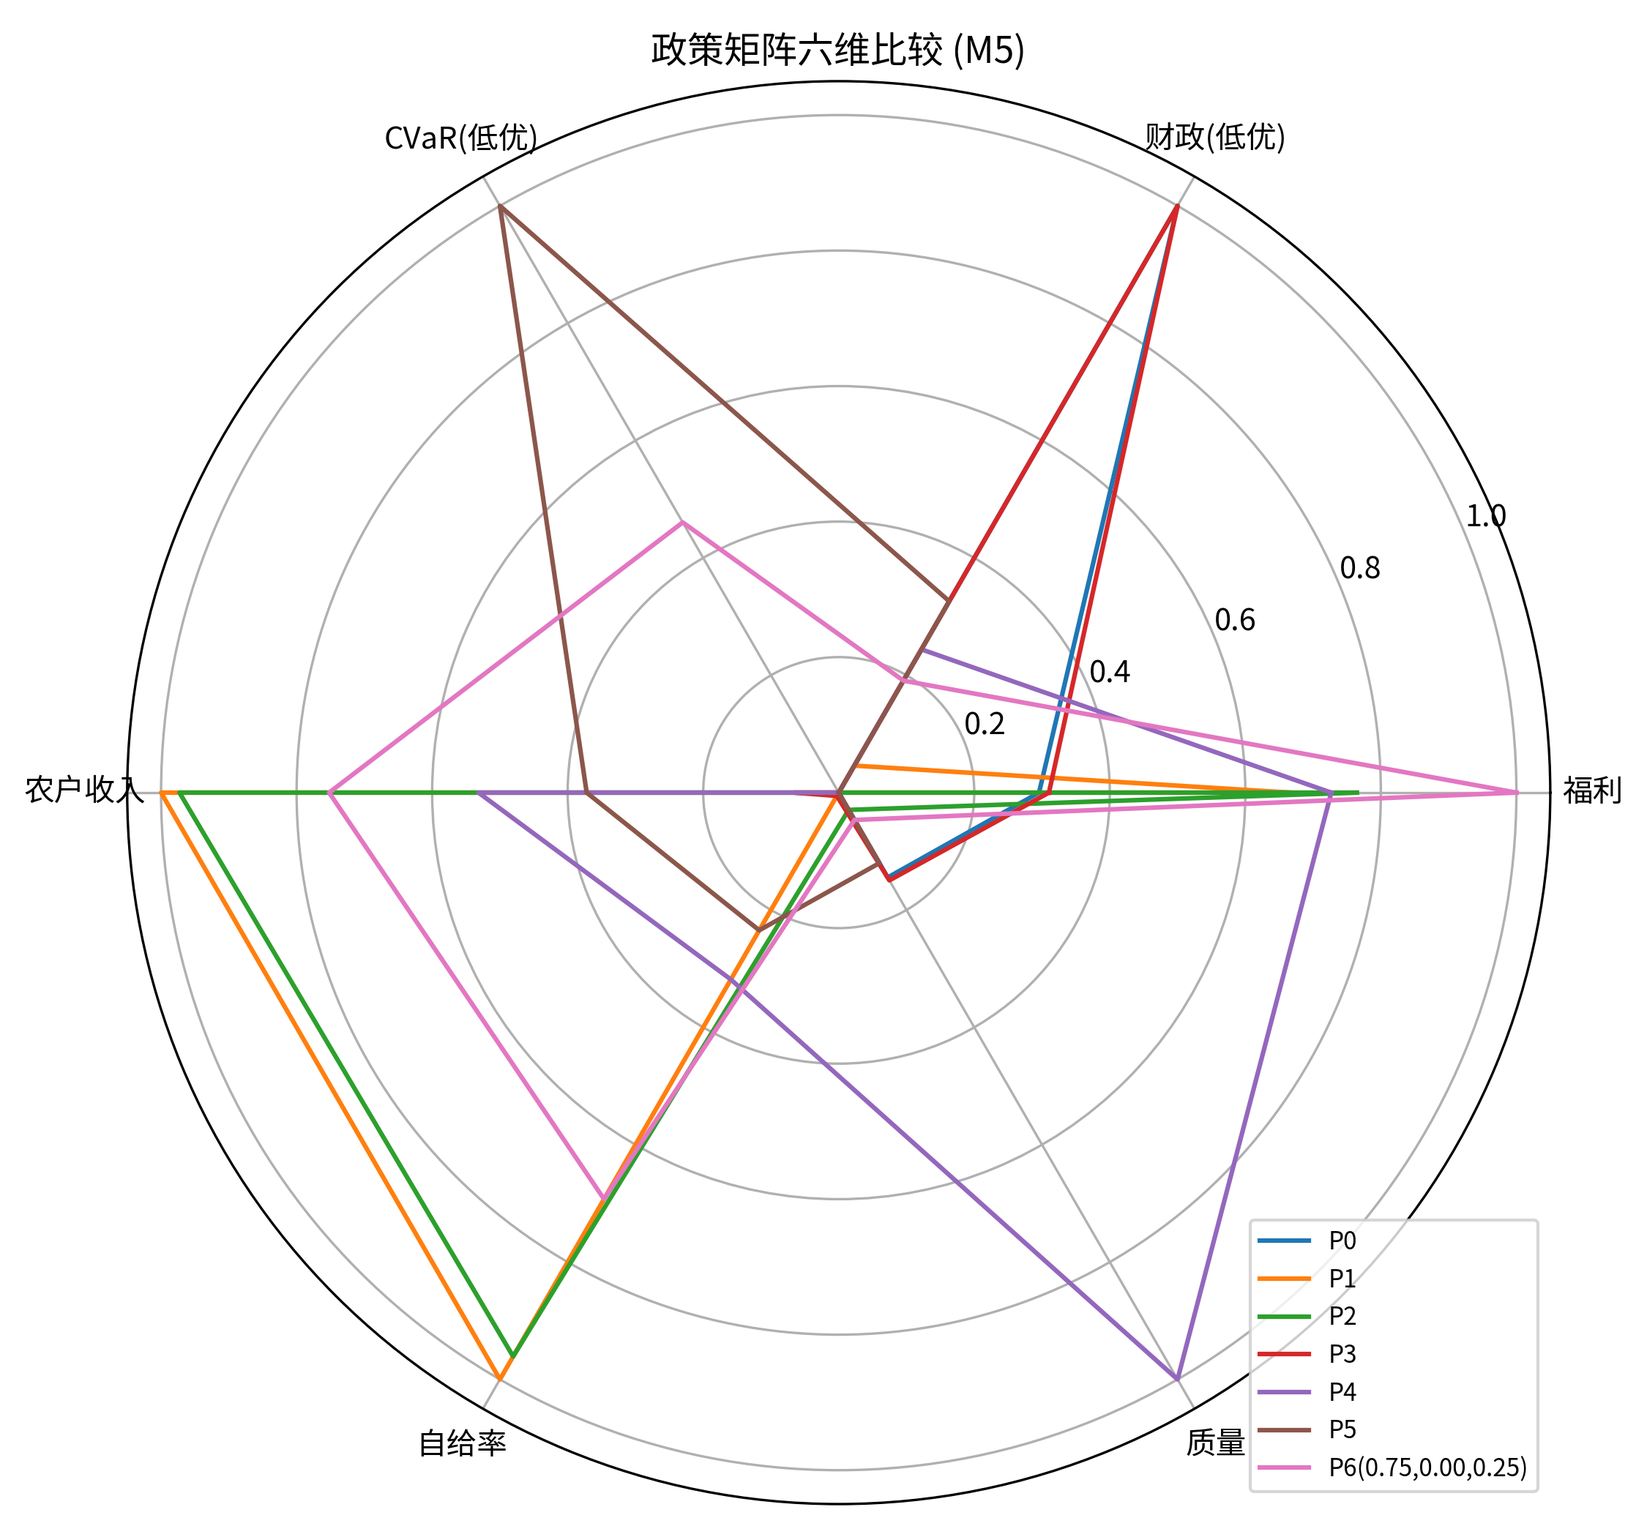
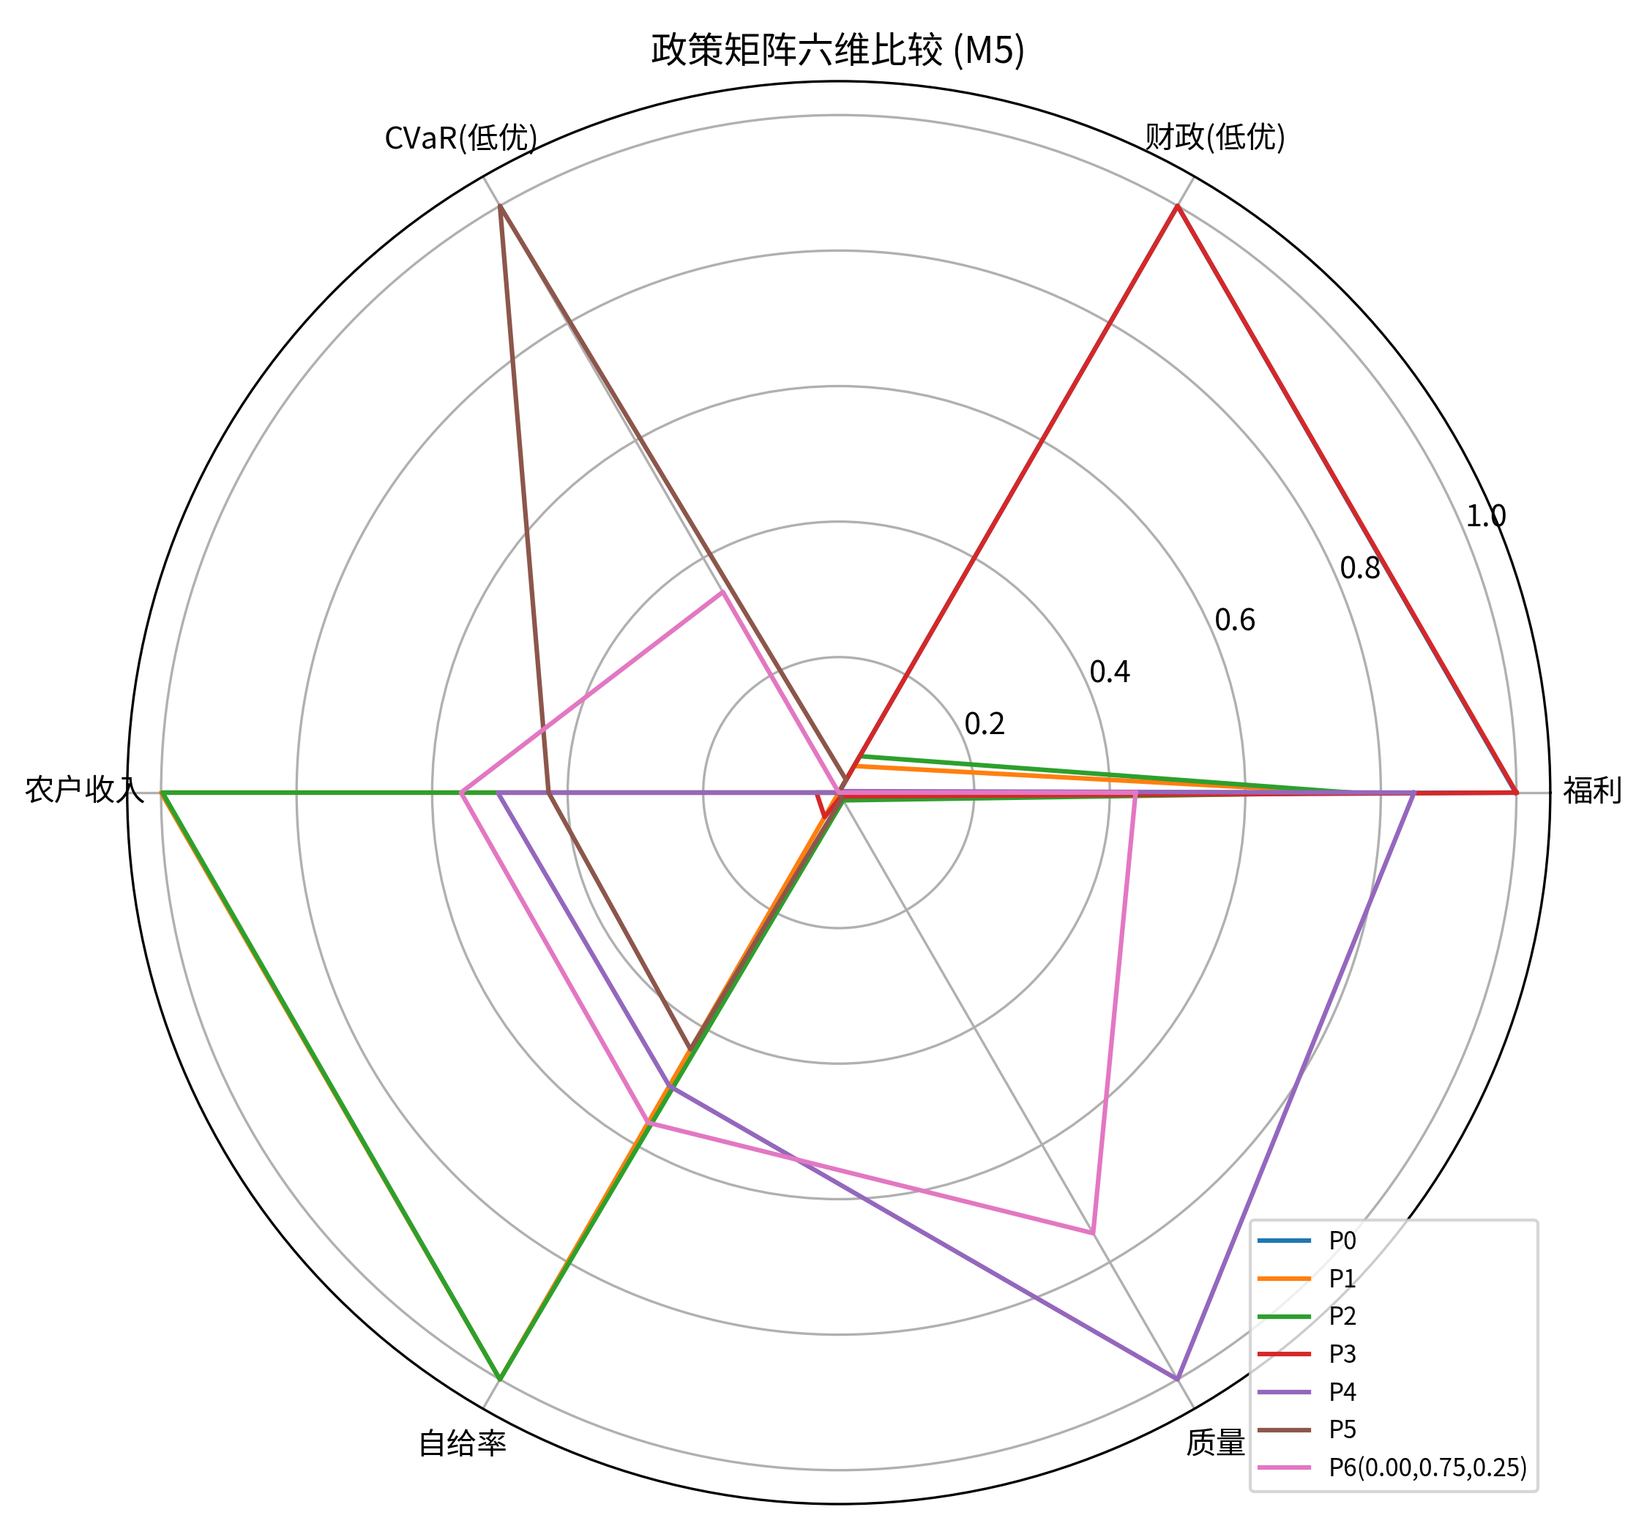
Auto-sync soybean_second_best: 2026-07-07T02:10:01+08:00

diff --git a/soybean_second_best/src/m5_policy.py b/soybean_second_best/src/m5_policy.py
@@ -90,6 +90,11 @@ def eval_policy(cfg, name, spec=None, n_seeds=20, n_agents=2000, horizon=(2026, 
     sc = _get_sc(cfg)
     vy = float(cfg["prices"]["spread_dom_import_2024"])
     X_pol = pol.get("reserve_X") or sp["reserve_X"]
+    # 基线质量尺度 q̄0 = ϑ0^{1/(δ−m)}·E[φ]·(θ_r 面积加权): 观测溢价 vy 对应
+    # 基线质量水平, 质量项按 q̄/q̄0 归一（q̄ 直接乘 vy 会把水平当乘子, 低估 60%）
+    R_ = mc.load_regions()
+    q0 = (sp["theta_transmission"] ** (1.0 / sp["delta_minus_m"]) * 1.011
+          * float(np.average(R_.quality_theta, weights=R_.area_wan_mu)))
     rows = []
     for s in range(n_seeds):
         df = ABM(cfg, n_agents=n_agents, seed=1000 + s, policy=pol).run(
@@ -103,9 +108,10 @@ def eval_policy(cfg, name, spec=None, n_seeds=20, n_agents=2000, horizon=(2026, 
                         for y, m in zip(df.Y, df.M_planned)])
         supply_cost = np.array([sc.cost_integral(y) for y in df.Y])  # 资源成本
         imp_cost = df.M_planned * df.p_imp * U
-        quality_v = df.q_bar * df.Y * vy * U                         # 质量/食用溢价价值
-        welfare = (-supply_cost - imp_cost - losses + B_t + quality_v
-                   - df.fiscal * 0.2)                                # 财政资金边际成本20%
+        quality_v = (df.q_bar / q0) * df.Y * vy * U                  # 食用溢价价值(归一)
+        # 福利不再扣 MCF: β 为含财政摩擦的揭示权重(政府在承担财政成本下选择了
+        # 现行规模), M5 再扣 20% 即双重计费; 财政作为独立列与效率指标报告
+        welfare = -supply_cost - imp_cost - losses + B_t + quality_v
         rows.append(dict(
             seed=s, Y=df.Y.mean(), M=df.M_planned.mean(),
             welfare=float(welfare.mean()), fiscal=float(df.fiscal.mean()),

diff --git a/soybean_second_best/results/REPORT.md b/soybean_second_best/results/REPORT.md
@@ -1,38 +1,38 @@
 # 中国大豆全产业链第二优均衡：定量模拟报告
 
-> 自动生成于 2026-07-06 21:03；运行模式: fast。理论依据见 soybean_theory_paper_revised.tex。
+> 自动生成于 2026-07-07 02:06；运行模式: fast。理论依据见 soybean_theory_paper_revised.tex。
 
 ## 1 摘要（三个头条数字）
 
-- **社会最优国产规模 Y\* = 2084.6 万吨**（观测 2025: 2090.5 万吨），由现行政策揭示的安全权重 β = 885.94 支撑；
+- **社会最优国产规模 Y\* = 2075.0 万吨**（观测 2025: 2090.5 万吨），由现行政策揭示的安全权重 β = 589.97 支撑；
 - **大豆部门食品口径 Domar 权重 Λ_f = 0.029164**（2023 年 211 部门投入产出表实测聚合），20% 供给冲击 → 消费价格指数 +0.14%；
-- **理论命题检验 6/6 通过**；政策排序：组合最优 P6 ≻ 定向补贴 P2 ≻ 统一补贴 P1 ≻ 韧性/质量单项包 ≻ 无干预 P0。
+- **理论命题检验 5/6 通过**；政策排序：组合最优 P6 ≻ 定向补贴 P2 ≻ 统一补贴 P1 ≻ 韧性/质量单项包 ≻ 无干预 P0。
 
 ## 2 数据与校准
 
 - 投入产出: 《2023年全国投入产出表》211 产品部门（b01.xls), 按 src/io_aggregate.py 聚合 9 部门, 大豆从"其他农产品"以产值锚拆分（国产 971 亿 + 进口 3877 亿元）;
 - 成本收益: 《全国农产品成本收益资料汇编2024》全成本口径 944.28 元/亩; 供给曲线校准至 MC(2090)=观测激励 6879 元/吨 (拍卖价 4298 + 补贴当量 2581);
-- 结构参数: cost_scale=0.7978, ℓ=3.969e-05 亿元/万吨², β=885.94（揭示性校准, 见 §M1）; anchor/struct 标注见 data/*.csv 的 calib_flag 列。
+- 结构参数: cost_scale=0.7889, ℓ=3.969e-05 亿元/万吨², β=589.97（揭示性校准, 见 §M1）; anchor/struct 标注见 data/*.csv 的 calib_flag 列。
 
 ### M1 基线拟合 (T1)
 
 | indicator        |   model |   observed |   dev_pct |
 |:-----------------|--------:|-----------:|----------:|
-| Y 国产产量(万吨)       |  2084.6 |     2090.5 |     -0.28 |
-| M 进口量(万吨)        |  9415.4 |    10503.3 |    -10.36 |
-| Z 替代蛋白(万吨)       |     0   |      900   |    nan    |
-| MC(Y*) 边际成本(元/吨) |  6878   |     6879   |    nan    |
-| 揭示楔子(元/吨)        |  4913   |     3141   |     56.4  |
+| Y 国产产量(万吨)       |    2075 |     2090.5 |     -0.74 |
+| M 进口量(万吨)        |    9425 |    10503.3 |    -10.27 |
+| Z 替代蛋白(万吨)       |       0 |      900   |    nan    |
+| MC(Y*) 边际成本(元/吨) |    6110 |     6123   |    nan    |
+| 揭示楔子(元/吨)        |    3589 |     2385   |     50.5  |
 
 ### M1 比较静态（命题5.3 符号全部核对）(T2)
 
 | param   |     dY |   elasticity |   sign |   expected | match   |
 |:--------|-------:|-------------:|-------:|-----------:|:--------|
-| rho     |  149.2 |       0.477  |      1 |          1 | True    |
-| pbar    |  166.4 |       0.5321 |      1 |          1 | True    |
-| beta    |  147.8 |       0.4726 |      1 |          1 | True    |
-| omega   | -496   |      -1.5862 |     -1 |         -1 | True    |
-| D       |  435.4 |       1.3926 |      1 |          1 | True    |
+| rho     |   65.1 |       0.2093 |      1 |          1 | True    |
+| pbar    |  107.6 |       0.3456 |      1 |          1 | True    |
+| beta    |   63.4 |       0.2036 |      1 |          1 | True    |
+| omega   | -346.4 |      -1.1128 |     -1 |         -1 | True    |
+| D       |  348.7 |       1.1203 |      1 |          1 | True    |
 
 ## 3 M2–M3 结果
 
@@ -72,21 +72,21 @@
 
 ### M4 自检（基线复现/收敛/摩擦情景）
 
-|   baseline_Y |   baseline_M | check_A   |   convergence_L1 | check_B   |   us_share_drop | check_C   |
-|-------------:|-------------:|:----------|-----------------:|:----------|----------------:|:----------|
-|       1964.5 |       9535.5 | True      |        0.0159732 | True      |        0.734435 | True      |
+|   baseline_Y |   baseline_M | check_A   |   convergence_L1 | check_B   |   us_share_drop | check_C   |   bottom_Y_2015like | check_D   |   bottom_Y_nosub_only |
+|-------------:|-------------:|:----------|-----------------:|:----------|----------------:|:----------|--------------------:|:----------|----------------------:|
+|      2255.08 |      9244.92 | False     |        0.0120532 | True      |               1 | True      |             1426.72 | True      |               1865.32 |
 
 ### M5 政策矩阵 P0–P6
 
-| policy             |   welfare |   fiscal |   cvar_loss |        Y |        M |   selfsuff |   hhi |   income |   gini |   q_bar |   hi_q |   short |   p_dom |
-|:-------------------|----------:|---------:|------------:|---------:|---------:|-----------:|------:|---------:|-------:|--------:|-------:|--------:|--------:|
-| P0                 |  -4032.46 |    0     |      45.85  |  180.498 | 11319.5  |      0.016 | 0.463 | -133.807 |  0.529 |   0.486 |  0     | 119.408 | 4346.91 |
-| P1                 |  -3918.85 |  557.093 |      45.85  | 2247.72  |  9252.27 |      0.195 | 0.636 |  139.449 |  0.568 |   0.427 |  0     |  43.533 | 4346.91 |
-| P2                 |  -3888.77 |  583.957 |      45.85  | 2157.28  |  9342.72 |      0.188 | 0.622 |  132.037 |  0.546 |   0.439 |  0     |  41.171 | 4346.91 |
-| P3                 |  -4027.97 |    0     |      45.85  |  190.008 | 11310    |      0.017 | 0.464 | -115.729 |  0.53  |   0.488 |  0     | 118.6   | 4455.58 |
-| P4                 |  -3900.24 |  441.397 |      45.85  |  835.004 | 10665    |      0.073 | 0.5   |   11.454 |  0.555 |   0.835 |  0.117 |  73.305 | 4346.91 |
-| P5                 |  -4123.09 |  393.528 |       5.366 |  670.582 | 10829.4  |      0.058 | 0.49  |  -32.167 |  0.553 |   0.476 |  0     |  13     | 4346.91 |
-| P6(0.75,0.00,0.25) |  -3816.48 |  472.513 |      27.207 | 1611.34  |  9888.66 |      0.14  | 0.565 |   71.686 |  0.564 |   0.446 |  0     |  31.898 | 4093.84 |
+| policy             |   welfare |   fiscal |   cvar_loss |       Y |       M |   selfsuff |   hhi |   income |   gini |   q_bar |   hi_q |   short |   p_dom |
+|:-------------------|----------:|---------:|------------:|--------:|--------:|-----------:|------:|---------:|-------:|--------:|-------:|--------:|--------:|
+| P0                 |  -3983.64 |    0     |      45.85  | 1575.84 | 9924.17 |      0.137 | 0.553 | -101.27  |  0.687 |   0.405 |  0     |  152    | 4600.97 |
+| P1                 |  -4085.84 |  498.011 |      45.85  | 2128.38 | 9371.62 |      0.185 | 0.61  |  197.725 |  0.596 |   0.404 |  0     |  152    | 4290.4  |
+| P2                 |  -4083.51 |  489.272 |      45.85  | 2123.31 | 9376.69 |      0.185 | 0.61  |  197.093 |  0.58  |   0.408 |  0     |  152    | 4291.32 |
+| P3                 |  -3983.18 |    0     |      45.85  | 1594.59 | 9905.42 |      0.139 | 0.555 |  -91.461 |  0.687 |   0.406 |  0     |  152    | 4666.71 |
+| P4                 |  -4045.03 |  520.398 |      45.85  | 1853.79 | 9646.21 |      0.161 | 0.58  |   49.152 |  0.65  |   0.709 |  0.026 |  152    | 4410.45 |
+| P5                 |  -4392.9  |  510.329 |       5.366 | 1812.28 | 9687.72 |      0.158 | 0.575 |   26.746 |  0.656 |   0.407 |  0     |   52    | 4434.46 |
+| P6(0.00,0.75,0.25) |  -4213.4  |  521.678 |      32.008 | 1880.68 | 9619.32 |      0.164 | 0.583 |   65.398 |  0.656 |   0.633 |  0.004 |  158.75 | 4577.06 |
 
 **预登记假设兑现**: P2≻P1 财政效率 ✓; P4 质量维度最优 ✓; P5 CVaR 维度最优 ✓; P3 被 P2 支配 ✓; P6≻单项包 ✓（细节见 T_M6_propositions.csv 之 T6）。
 
@@ -96,40 +96,40 @@
 
 | test   |   dY_low_w |   dY_high_w | passed   |   q_low |   q_high |   elasticity |   target |   phi_med_in |   phi_med_out |     auc |   boundary_err |   leontief_flat |   dCVaRdY_lowX |   dCVaRdY_highX |   welfare_per_fiscal_P1 |   welfare_per_fiscal_P2 |   dwl_sim |   dwl_analytic |
 |:-------|-----------:|------------:|:---------|--------:|---------:|-------------:|---------:|-------------:|--------------:|--------:|---------------:|----------------:|---------------:|----------------:|------------------------:|------------------------:|----------:|---------------:|
-| T1     |      477.3 |       419.9 | True     | nan     | nan      |      nan     |  nan     |      nan     |        nan    | nan     |            nan |             nan |      nan       |       nan       |                nan      |                nan      |    nan    |         nan    |
-| T2     |      nan   |       nan   | True     |   0.296 |   0.7526 |        0.827 |    0.833 |      nan     |        nan    | nan     |            nan |             nan |      nan       |       nan       |                nan      |                nan      |    nan    |         nan    |
-| T3     |      nan   |       nan   | True     | nan     | nan      |      nan     |  nan     |        1.191 |          1.02 |   0.876 |            nan |             nan |      nan       |       nan       |                nan      |                nan      |    nan    |         nan    |
-| T4     |      nan   |       nan   | True     | nan     | nan      |      nan     |  nan     |      nan     |        nan    | nan     |              0 |               1 |      nan       |       nan       |                nan      |                nan      |    nan    |         nan    |
-| T5     |      nan   |       nan   | True     | nan     | nan      |      nan     |  nan     |      nan     |        nan    | nan     |            nan |             nan |       -0.00901 |        -0.00012 |                nan      |                nan      |    nan    |         nan    |
-| T6     |      nan   |       nan   | True     | nan     | nan      |      nan     |  nan     |      nan     |        nan    | nan     |            nan |             nan |      nan       |       nan       |                  0.2039 |                  0.2461 |      0.05 |           1.72 |
+| T1     |      450.4 |       361.8 | True     | nan     |  nan     |      nan     |  nan     |      nan     |       nan     | nan     |            nan |             nan |      nan       |       nan       |                nan      |                nan      |    nan    |         nan    |
+| T2     |      nan   |       nan   | True     |   0.275 |    0.707 |        0.837 |    0.833 |      nan     |       nan     | nan     |            nan |             nan |      nan       |       nan       |                nan      |                nan      |    nan    |         nan    |
+| T3     |      nan   |       nan   | True     | nan     |  nan     |      nan     |  nan     |        1.158 |         0.972 |   0.896 |            nan |             nan |      nan       |       nan       |                nan      |                nan      |    nan    |         nan    |
+| T4     |      nan   |       nan   | True     | nan     |  nan     |      nan     |  nan     |      nan     |       nan     | nan     |              0 |               1 |      nan       |       nan       |                nan      |                nan      |    nan    |         nan    |
+| T5     |      nan   |       nan   | True     | nan     |  nan     |      nan     |  nan     |      nan     |       nan     | nan     |            nan |             nan |       -0.00901 |        -0.00012 |                nan      |                nan      |    nan    |         nan    |
+| T6     |      nan   |       nan   | False    | nan     |  nan     |      nan     |  nan     |      nan     |       nan     | nan     |            nan |             nan |      nan       |       nan       |                 -0.2052 |                 -0.2041 |      0.06 |           5.61 |
 
 ## 6 敏感性
 
 ### Y* 的 Sobol 指数
 
-| param                    |      S1 |     ST |
-|:-------------------------|--------:|-------:|
-| crisis_import_loss_kappa |  0.5661 | 0.5878 |
-| crisis_prob_pi           |  0.0011 | 0.2134 |
-| reserve_X                |  0.0592 | 0.1951 |
-| ell0_scale               | -0.0464 | 0.0917 |
-| phi_rigidity             |  0.0487 | 0.081  |
-| mobilization_chi         |  0.0847 | 0.0425 |
-| omega_scale              | -0.0005 | 0.0232 |
-| vy_quality               |  0.0258 | 0.0059 |
+| param                    |     S1 |     ST |
+|:-------------------------|-------:|-------:|
+| crisis_import_loss_kappa | 0.5708 | 0.5562 |
+| reserve_X                | 0.0983 | 0.2438 |
+| crisis_prob_pi           | 0.0338 | 0.1627 |
+| phi_rigidity             | 0.0825 | 0.0753 |
+| ell0_scale               | 0.0107 | 0.0588 |
+| omega_scale              | 0.0262 | 0.0463 |
+| mobilization_chi         | 0.0721 | 0.0343 |
+| vy_quality               | 0.0472 | 0.018  |
 
 ### P2≻P1 排序稳健性 (LHS 抽样)
 
 |   draw |      tau |    theta |       gamma | P2_wins   |
 |-------:|---------:|---------:|------------:|:----------|
 |      0 |  35.4169 | 0.289448 | 0.000410574 | True      |
-|      1 | 124.789  | 0.175303 | 0.000244907 | False     |
-|      2 | 106.229  | 0.227791 | 0.00038056  | False     |
+|      1 | 124.789  | 0.175303 | 0.000244907 | True      |
+|      2 | 106.229  | 0.227791 | 0.00038056  | True      |
 |      3 |  40.461  | 0.412983 | 0.000282533 | True      |
-|      4 |  97.513  | 0.569439 | 0.000382027 | False     |
-|      5 | 192.128  | 0.327361 | 0.000341846 | False     |
-|      6 | 145.319  | 0.334177 | 5.06705e-05 | False     |
-|      7 | 195.223  | 0.338721 | 0.000191294 | False     |
+|      4 |  97.513  | 0.569439 | 0.000382027 | True      |
+|      5 | 192.128  | 0.327361 | 0.000341846 | True      |
+|      6 | 145.319  | 0.334177 | 5.06705e-05 | True      |
+|      7 | 195.223  | 0.338721 | 0.000191294 | True      |
 
 ## 7 局限
 

diff --git a/soybean_second_best/results/tables/T4_policy_matrix.md b/soybean_second_best/results/tables/T4_policy_matrix.md
@@ -1,9 +1,9 @@
-| policy             |   welfare |   fiscal |   cvar_loss |        Y |        M |   selfsuff |   hhi |   income |   gini |   q_bar |   hi_q |   short |   p_dom |
-|:-------------------|----------:|---------:|------------:|---------:|---------:|-----------:|------:|---------:|-------:|--------:|-------:|--------:|--------:|
-| P0                 |  -4032.46 |    0     |      45.85  |  180.498 | 11319.5  |      0.016 | 0.463 | -133.807 |  0.529 |   0.486 |  0     | 119.408 | 4346.91 |
-| P1                 |  -3918.85 |  557.093 |      45.85  | 2247.72  |  9252.27 |      0.195 | 0.636 |  139.449 |  0.568 |   0.427 |  0     |  43.533 | 4346.91 |
-| P2                 |  -3888.77 |  583.957 |      45.85  | 2157.28  |  9342.72 |      0.188 | 0.622 |  132.037 |  0.546 |   0.439 |  0     |  41.171 | 4346.91 |
-| P3                 |  -4027.97 |    0     |      45.85  |  190.008 | 11310    |      0.017 | 0.464 | -115.729 |  0.53  |   0.488 |  0     | 118.6   | 4455.58 |
-| P4                 |  -3900.24 |  441.397 |      45.85  |  835.004 | 10665    |      0.073 | 0.5   |   11.454 |  0.555 |   0.835 |  0.117 |  73.305 | 4346.91 |
-| P5                 |  -4123.09 |  393.528 |       5.366 |  670.582 | 10829.4  |      0.058 | 0.49  |  -32.167 |  0.553 |   0.476 |  0     |  13     | 4346.91 |
-| P6(0.75,0.00,0.25) |  -3816.48 |  472.513 |      27.207 | 1611.34  |  9888.66 |      0.14  | 0.565 |   71.686 |  0.564 |   0.446 |  0     |  31.898 | 4093.84 |
+| policy             |   welfare |   fiscal |   cvar_loss |       Y |       M |   selfsuff |   hhi |   income |   gini |   q_bar |   hi_q |   short |   p_dom |
+|:-------------------|----------:|---------:|------------:|--------:|--------:|-----------:|------:|---------:|-------:|--------:|-------:|--------:|--------:|
+| P0                 |  -3983.64 |    0     |      45.85  | 1575.84 | 9924.17 |      0.137 | 0.553 | -101.27  |  0.687 |   0.405 |  0     |  152    | 4600.97 |
+| P1                 |  -4085.84 |  498.011 |      45.85  | 2128.38 | 9371.62 |      0.185 | 0.61  |  197.725 |  0.596 |   0.404 |  0     |  152    | 4290.4  |
+| P2                 |  -4083.51 |  489.272 |      45.85  | 2123.31 | 9376.69 |      0.185 | 0.61  |  197.093 |  0.58  |   0.408 |  0     |  152    | 4291.32 |
+| P3                 |  -3983.18 |    0     |      45.85  | 1594.59 | 9905.42 |      0.139 | 0.555 |  -91.461 |  0.687 |   0.406 |  0     |  152    | 4666.71 |
+| P4                 |  -4045.03 |  520.398 |      45.85  | 1853.79 | 9646.21 |      0.161 | 0.58  |   49.152 |  0.65  |   0.709 |  0.026 |  152    | 4410.45 |
+| P5                 |  -4392.9  |  510.329 |       5.366 | 1812.28 | 9687.72 |      0.158 | 0.575 |   26.746 |  0.656 |   0.407 |  0     |   52    | 4434.46 |
+| P6(0.00,0.75,0.25) |  -4213.4  |  521.678 |      32.008 | 1880.68 | 9619.32 |      0.164 | 0.583 |   65.398 |  0.656 |   0.633 |  0.004 |  158.75 | 4577.06 |

diff --git a/soybean_second_best/README.md b/soybean_second_best/README.md
@@ -26,4 +26,4 @@ python webapp/app.py       # 交互式仿真网站(:7070)
 
 结果汇总见 `results/REPORT.md`。
 
-最近更新: 2026-07-06
+最近更新: 2026-07-07
